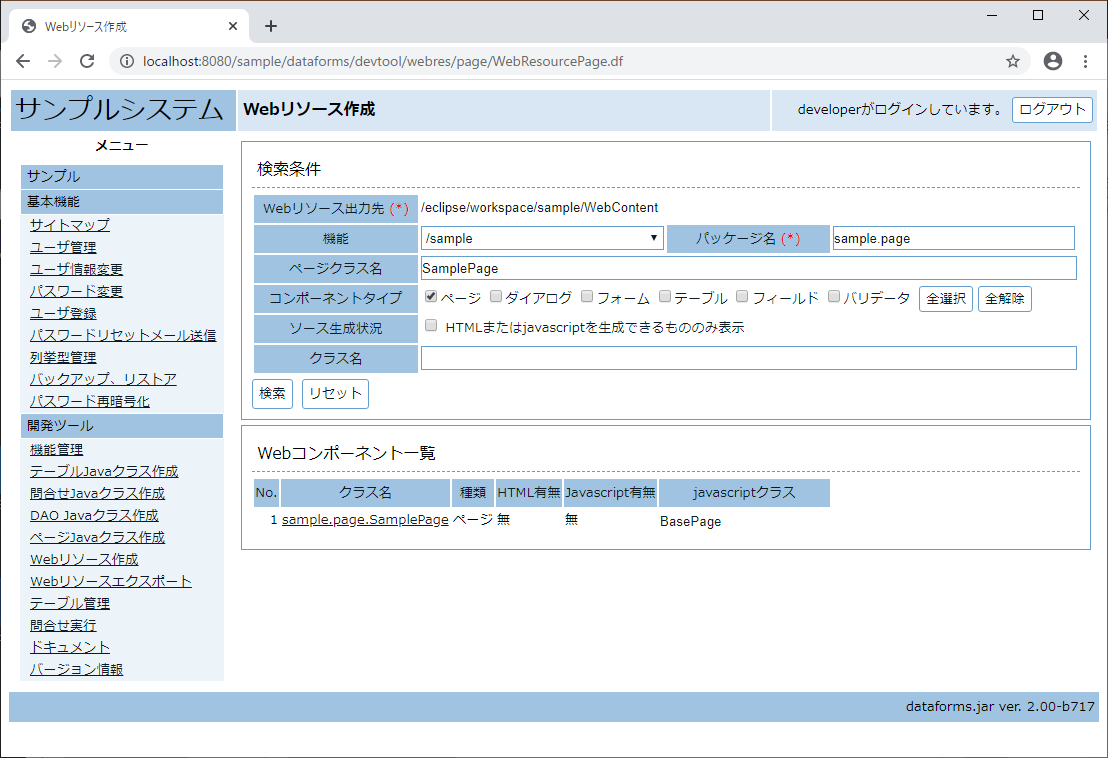
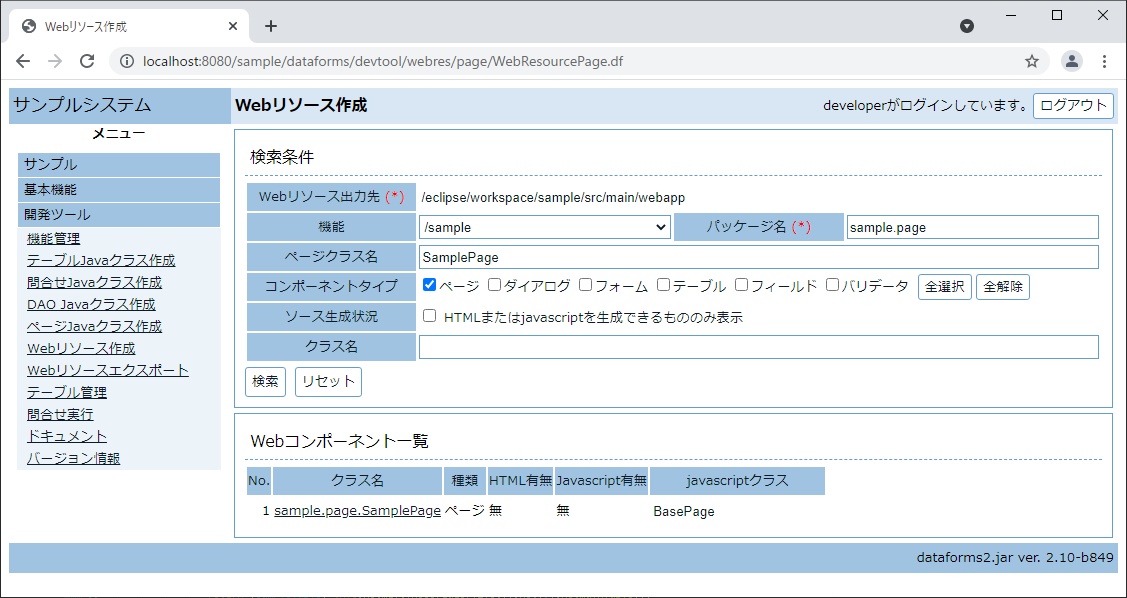
ドキュメントを修正。

diff --git a/HTML/META-INF/resources/doc/2.2.devtool/devtool.html b/HTML/META-INF/resources/doc/2.2.devtool/devtool.html
@@ -487,10 +487,31 @@
 			複数テーブルが関連するページの場合、この機能を使用して問合せを作成します。
 			問合せクラスは「Table,Query,Dao」の章で解説します。
 		</p>
-		<h3>DAOクラスの作成</h3>
+		<h3>DAOクラス、Pageクラスの作成</h3>
+		<p>
+			dataforms2.jarでは一般的なWebページの動作を以下のように想定しています。
+		</p>
+		<ol>
+			<li>テータベースの問合せ条件を入力し、問合せを実行(QueryForm)</li>
+			<li>問合せ結果を一覧として表示(QueryResultForm)</li>
+			<li>一覧の中の1件を選択し、その内容を編集し保存(EditForm)</li>
+		</ol>
+		<p>
+			上記リストの機能は括弧内のFormクラス名で実装されており、これらのFormクラスをページクラスに配置します。
+			この3種類のフォームクラスを全てページに配置すると、データベース中のテーブルをメンテナンスするページを簡単に作成することができます。
+		</p>
+		<p>
+			全てのページがこのような動作をするわけではありませんが、大抵のページはこの3種類のどれかが無いというパターンに分類されます。
+			データベースを検索し一覧を出力するだけのページであれば、QueryFormとQeuryResultFormを配置しEditFormを省略することで作成することができます。
+			システムの設定画面のページであればEditFormだけを配置したページで作成することができます。
+		</p>
+		<p>
+			当然この3種類以外の独自のFormクラスを作成しページに配置することも可能ですが、
+			大抵この3種類のフォームを使った方が簡単にシステムを作成することができるはずです。
+		</p>
 		<p>
 			ページクラスを作成する前にページクラスが使用するDAO(Data access object)クラスを作成します。
-			dataforms.dao.Daoクラスはテーブルへのレコード追加、更新、削除や問合せの実行を行うクラスです。
+			dataforms.dao.Daoクラスはテーブルへのレコード追加、更新、削除や問合せを行うクラスです。
 			「DAO Javaクラス作成」はdataforms.dao.Daoから派生したdataforms.dao.QuerySetDaoのサブクラスを作成します。
 			dataforms.dao.QuerySetDaoクラスは、問合せ時に実行する問合せクラスと編集するデータを取得する問合せを指定し、
 			ページから使用するデータの検索、更新機能を提供します。
@@ -509,16 +530,20 @@
 			単一のテーブルを編集するだけのページの場合、「一覧取得用問合せ」、「編集フォーム用問合せ」に対象のテーブルクラスを指定してください。
 		</p>
 		<p>
+			QuerySetDaoクラスには基本的なレコード追加(insert)、更新(update)、削除(delete)のメソッドが実装されています。
+			1つのテーブルの操作だけであれば、Daoクラスのメソッドで問題なく動作します。
+			複雑な保存処理が必要であれば、これらのメソットをオーバーライドして書き換えることで対応することができます。
+		</p>
+		<p>
 			この操作で以下のようにSampleDao.javaが作成されます。ソースの生成を確認したら、ビルドを行った後Tomcatを再起動してください。
 		</p>
 		<figure>
 			<figcaption>Dao Javaクラス作成結果</figcaption>
 			<img src="dao2.png" style="width:50%; height:50%;"/>
 		</figure>
-		<h3>ページJavaクラスの作成</h3>
 		<p>
 			次に、開発ツールの「ページJavaクラス作成」を使用し、作成したSampleTableを編集するページJavaクラスを作成します。
-			「ページJavaクラス作成」ではページに対して以下の3種類のフォームを配置することができます。
+			「ページJavaクラス作成」ではページに対して先に述べた3種類のフォームを配置することができます。
 		</p>
 		<table>
 			<caption>
@@ -571,9 +596,10 @@
 			<figcaption>ページJavaクラス作成結果</figcaption>
 			<img src="page2.png" style="width:50%; height:50%;"/>
 		</figure>
+		<!--
 		<p class="topic">
 			PageとDialogはDataFormsクラスから派生しています。
-			DataFormsクラスは、これらのフォームが配置された場合、これらのフォームのイベント処理を適切に設定します。
+			DataFormsクラスは、この三種類のフォームが配置された場合、これらのフォームのイベント処理を適切に設定します。
 			そのためこのフォームを配置するだけで、「問い合わせフォーム→問い合わせ結果表示フォーム→データ編集フォーム」の流れで動作するようになっています。
 		</p>
 		<p class="topic">
@@ -585,6 +611,7 @@
 			Formクラスから派生した上記三種類以外のフォームも、PageやDialogに配置することができます。
 			この場合、ページクラスやフォームクラスのコーディングが必要になります。
 		</p>
+		 -->
 		<h3>Webリソースの作成</h3>
 		<p>
 			開発ツールの「Webリソース作成」を使用し、ページJavaクラスを元にHTMLを作成します。
@@ -642,13 +669,13 @@
 				</tr>
 				<tr>
 					<td style="text-align: right;">2</td>
-					<td>WebContent</td>
+					<td>/src/main/webapp</td>
 					<td>/sample</td>
 					<td>プロジェクト中のWebContentフォルダ中に/sampleというサブフォルダを作成します。</td>
 				</tr>
 				<tr>
 					<td style="text-align: right;">3</td>
-					<td>WebContent/sample</td>
+					<td>/src/main/webapp/sample</td>
 					<td>Function.properties</td>
 					<td>
 						機能の名称を以下の様な形式で登録します。
@@ -662,7 +689,7 @@ sample=サンプル
 				<tr>
 					<td style="text-align: right;">4</td>
 					<td rowspan="6">テーブルJavaクラス作成</td>
-					<td rowspan="2">src/sample/dao</td>
+					<td rowspan="2">/src/main/java/sample/dao</td>
 					<td>SampleTable.java</td>
 					<td>sampleテーブルの構造を定義します。</td>
 				</tr>
@@ -673,7 +700,7 @@ sample=サンプル
 				</tr>
 				<tr>
 					<td style="text-align: right;">6</td>
-					<td rowspan="4">src/sample/field</td>
+					<td rowspan="4">/src/main/java/sample/field</td>
 					<td>SampleIdField.java</td>
 					<td>レコードIDフィールドのクラスです。</td>
 				</tr>
@@ -695,14 +722,14 @@ sample=サンプル
 				<tr>
 					<td style="text-align: right;">10</td>
 					<td>DAO Javaクラス作成</td>
-					<td>src/sample/dao</td>
+					<td>/src/main/java/sample/dao</td>
 					<td>SampleDao.java</td>
 					<td>smapleテーブルの検索編集を行うDAOクラスです。</td>
 				</tr>
 				<tr>
 					<td style="text-align: right;">11</td>
 					<td rowspan="5">ページ Javaクラス作成</td>
-					<td rowspan="4">src/sample/page</td>
+					<td rowspan="4">/src/main/java/sample/page</td>
 					<td>SamplePage.java</td>
 					<td>sampleテーブルを編集するページです。</td>
 				</tr>
@@ -723,7 +750,7 @@ sample=サンプル
 				</tr>
 				<tr>
 					<td style="text-align: right;">15</td>
-					<td>WebContent/sample</td>
+					<td>/src/main/webapp/sample</td>
 					<td>Function.properties</td>
 					<td>
 						Function.propertiesにページの名称を追加します。
@@ -739,7 +766,7 @@ sample.page.SamplePage=サンプルページ
 				<tr>
 					<td style="text-align: right;">16</td>
 					<td>Webリソース作成</td>
-					<td>WebContent/sample/page</td>
+					<td>/src/main/webapp/sample/page</td>
 					<td>SamplePage.html</td>
 					<td>ページの情報を表示するHTMLです。</td>
 				</tr>

diff --git a/src/sample/dao/MaterialMasterDao.java b/src/sample/dao/MaterialMasterDao.java
@@ -30,7 +30,7 @@ public class MaterialMasterDao extends QuerySetDao {
 	public MaterialMasterDao() {
 		this.setComment("資材マスタDao");
 		this.setListQuery(this.materialMasterTable = new MaterialMasterTable());
-		this.setSingleRecordQuery(this.materialMasterTable = new MaterialMasterTable());
+		this.setSingleRecordQuery(this.materialMasterTable);
 
 	}
 
@@ -46,7 +46,7 @@ public class MaterialMasterDao extends QuerySetDao {
 
 	/**
 	 * 主テーブルを取得します。
-	 * @return 主テーブル>
+	 * @return 主テーブル。
 	 */
 	public MaterialMasterTable getMainTable() {
 		if (this.getSingleRecordQuery() != null) {
@@ -58,5 +58,46 @@ public class MaterialMasterDao extends QuerySetDao {
 		}
 		return null;
 	}
+
+	//
+	// 追加、更新、削除処理を改造する場合は以下のメソッドをオーバーライドしてください。
+	// QuerySetDaoクラスではsingleRecordQuery,multiRecordQueryListに登録された各問合せ
+	// のmainTableのみ操作するようになっています。
+	//
+	/**
+	 * テーブル群を追加します。
+	 * @param data データ。
+	 * @throws Exception 例外。
+	 */
+/*
+	@Override
+	public void insert(final Map<String, Object> data) throws Exception {
+		super.insert(data);
+	}
+*/
+
+	/**
+	 * テーブル群を更新します。
+	 * @param data 更新データ。
+	 * @throws Exception 例外。
+	 */
+/*
+	@Override
+	public void update(final Map<String, Object> data) throws Exception {
+		super.update(data);
+	}
+*/
+
+	/**
+	 * データを削除します。
+	 * @param data データ。
+	 * @throws Exception 例外。
+	 */
+/*
+	@Override
+	public void delete(final Map<String, Object> data) throws Exception {
+		super.delete(data);
+	}
+*/
 
 }

diff --git a/src/dataforms/devtool/dao/page/DaoGeneratorEditForm.java b/src/dataforms/devtool/dao/page/DaoGeneratorEditForm.java
@@ -595,7 +595,9 @@ public class DaoGeneratorEditForm extends EditForm {
 					if (!p.equals(queryPackage)) {
 						implist.add(queryPackage + "." + queryClass);
 					}
-					if (listQueryPackage.equals(queryPackage) && queryClass.equals(listQueryClass)) {
+					logger.debug("listQuery=" + listQueryPackage + "," + listQueryClass);
+					logger.debug("editQuery=" + queryPackage + "," + queryClass);
+					if (listQueryPackage.equals(queryPackage) && listQueryClass.equals(queryClass)) {
 						javasrc = javasrc.replaceAll("\\$\\{singleRecordQuery\\}", "this." + StringUtil.firstLetterToLowerCase(queryClass));
 					} else {
 						javasrc = javasrc.replaceAll("\\$\\{singleRecordQuery\\}", "this." + StringUtil.firstLetterToLowerCase(queryClass) + " = new " + queryClass + "()");
